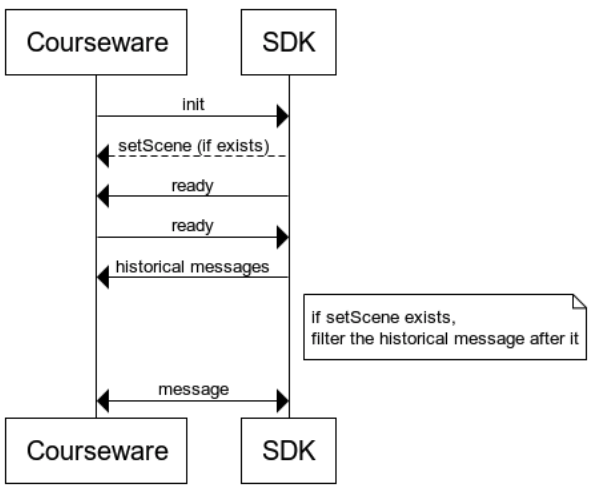
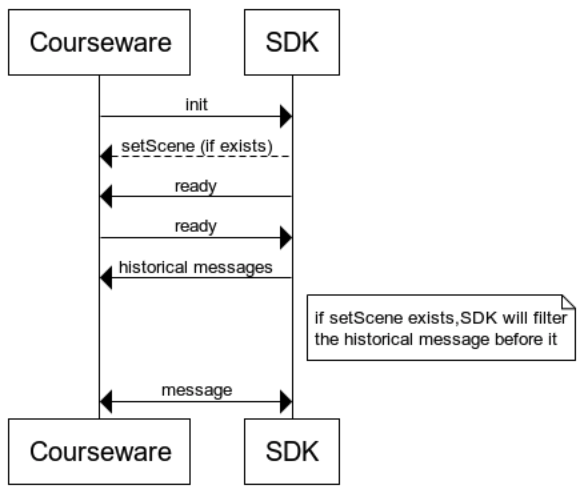
增加英文 readme

Changed region(s): [[0.0, 0.0, 0.9914, 1.0]]

diff --git a/README.en.md b/README.en.md
@@ -1,58 +1,58 @@
-# rise 课件对接说明
+# rise-h5-sdk
 
-接入此SDK，可使用 rise 信道进行即时通信，实现多个终端用户课件进度同步的效果。
+[中文](README.md)
 
-## 安装
+## General Usage
 
-引入 `rise-h5-sdk.js` ，即可使用 window.riseObserver 对象和 window.callRiseIframe、window.getRiseUserInfo 函数
+import `rise-h5-sdk.js` ，then the  “window.riseObserver” object and “window.callRiseIframe”、”window.getRiseUserInfo” functions will be available to use
 
-或者使用:   `npm install rise-h5-sdk --save`
+or
+`npm install rise-h5-sdk --save`
 ```javascript
 import { riseObserver, callRiseIframe, getRiseUserInfo } from 'rise-h5-sdk'
 ```
-## 流程图
+## Process Diagram
 ![image](/readme/seq_en.png)
-> 注：behavior = setScene 的消息 SDK 不会做限制，直接发送。
+> _ IMPORTANT _：behavior = setScene will be sent instantly without any restriction
 
-#### 流程说明
-1. 课件加载后发送 init 消息
-2. SDK 检查历史消息，找出最近的一次 setScene 消息，发送给课件（没有则不发送）
-3. SDK 发送 ready 消息
-4. 课件收到 SDK ready 后，回发一个 ready 消息
-5. SDK收到课件的 ready 后，会依次推送去重后的历史消息给课件。（如果有第2步的 setScene 则这里会过滤只推送 setScene 时间点后的消息）
-6. 进入正常的收发消息阶段
+#### How to work
+1. Send ‘init’ message when the courseware  was loaded
+2. SDK will pull the history messages，from which you will get the latest  “behavior = setScene” message for scene syncing
+3. SDK will send “ready” message
+4. Courseware responds a “ready” message
+5. SDK will send history messages to courseware  which will be replayed on the courseware side
+6. Events in, events out
 
-## 同屏实现原理：
-1. 课件通过 **riseObserver.on(key,fn)** 注册所有需要同步的渲染相关函数（**fn是纯粹的渲染行为函数**）
-2. 本地触发事件时，通过调用 **callRiseIframe(data)** 函数即可发送到其他用户端
-3. 其他端收到同步消息后，SDK 会调用 **riseObserver.emit(key,data)** 触发之前注册的自定义事件进行渲染
+## Key Process：
+1. register all rendering functions(fn) need to be sync **riseObserver.on(key,fn)** 
+2. Using **callRiseIframe(data)** to sync events to other clients
+3. Once the client received this event message，**riseObserver.emit(key,data)** will reproduce the same event to happen(function) on local machine 
 
-#### callRiseIframe的参数格式：
+#### callRiseIframe parameters：
 ```javascript
-// 注意：历史操作同步过程中会根据  target + behavior 进行去重处理，所以这两个参数定义时请尽量描述准确当前的行为
+// target + behavior’ combination will be used to handle duplication removing
 {
-    target: '目标对象', // 必填，目标对象选择器，推荐使用 id选择器，你可以根据这个 target 识别是哪个元素
-    behavior: 'key', // 必填，在  riseObserver.on(key,fn) 中注册的自定义事件名称 key
-    page:'页码标识', // 必填，当前 behavior 发生时所处的页码（全课件下页码唯一）。 rise 需要这个字段来操作教室的白板页码跟随
-    content: {},   // 自定义参数内容，你可以随意定义你需要的参数， content 本身必须是个对象
-    offline:false, // 表示此消息是否不需要通过 信道 发送给其他用户。默认 false，会同步给其他用户
-    interval: 0, // 像鼠标移动这类事件触发太频繁，需要控制频率，否则通信过于频繁会丢失数据。SDK 内置了实现，只需要指定 interval = 毫秒数 即可
+    target: '', // required，object selector(eg. id selector）
+    behavior: 'key', // required，event name(key) which mapped to the ‘key’ of riseObserver.on(key,fn) 
+    page:'', // required，current behavior page
+    content: {},   // custom message body(object)
+    offline:false, // （false by default）sync to other clients
+    interval: 0, // in case this event happens too often，set a reasonable sync frequency（ms）
 }
 ```
-#### getRiseUserInfo 函数
+
+#### getRiseUserInfo 
 ```javascript
-// 获取当前用户信息
+// Get current user info
 const userInfo = getRiseUserInfo();
-// 返回值
+return values
 {
-  isTeacher: false, // 是否是老师
-  hasControl: false, // 当前用户是否对课件有控制权。注意：此字段会动态变化，所以课件方使用时，需实时调用 getRiseUserInfo() 函数获取
+  isTeacher: false, 
+  hasControl: false, // Whether the user was authorized to control the courseware at the current time 
 }
 ```
 
-## 特定的 behavior：
-
-这些 behavior 是 SDK 中留做特殊用途的声明,课件渲染函数定义请避开下列保留词：
+## Speicial behavior as reserved words：
 
 - init
 - ready
@@ -63,64 +63,54 @@ const userInfo = getRiseUserInfo();
 - mediaStopAll
 - $setUrl
 
-> 注：另外为了保证日后 SDK 扩展不冲突，第三方也避免使用 $ 开头的 behavior
+> _ IMPORTANT _：In order to ensure that there is no conflict in future SDK versions, the third party should also avoid using the behavior beginning with '$'
 
-### SDK会主动发起的调用：
-需要第三方提前注册好相应的 behavior 事件，供 SDK 后续调用:
+### SDK initiated behavior：
+Third-party registered behavior for SDK later use:
 
-behavior  | content自定义参数 | 说明
+behavior  | content custom parameters| description
 ------------- | ------------- | -------------
-setScene  |  | 控制切换到指定场景，一般在同步最新进度时 SDK 会主动将历史消息中最近的一次 behavior = setScene  的发给课件
+setScene  |  | for scene syncing
 
-使用  riseObserver.on(key,fn) 注册 behavior,例如:
+behavior register:
 ```javascript
 riseObserver.on('setScene',function(data){
    const key = data.content.key;
-  // 课件切换到 key 对应的场景
+  // switch scene mapped to the ‘key’
 })
 ```
 
-### 需要第三方主动发起的调用:
+### Third party initiated behaviors:
 
-behavior  | content自定义参数 | 说明
+behavior  | content custom parameters| description
 ------------- | ------------- | -------------
-init | | 课件初始化事件，课件同步的操作会在 SDK 收到 init 通知后进行。参考流程图
-ready | | 课件已准备就绪，进入正常的通信阶段。参考流程图
-setScene  |  | 课件切换场景（包含翻页）后，应主动发起一次 behavior = setScene 消息，标记当前课件的最新场景。这样后进入教室的用户可以快速定位到最新场景
-mediaPlay  |  | 音、视频的播放通知
-mediaPause  |  | 音、视频的停止播放通知
-$setUrl  | {url:String}  | 改变课件所属 iframe 的 src 地址。一般用于切换到另一个课件（会清空已保存的历史进度）
+init | | courseware initilized
+ready | | courseware ready for sync
+mediaPlay  |  | Media playing event
+mediaPause  |  | Media paused event
+$setUrl  | {url:String}  | set courseware URL （current ）
 
-#### 1.课件初始化完成通知
-需要第三方在课件加载完成后，主动发起一次 `init`   通知:
+#### 1.courseware initialization  
+
+‘init’ behavior must be called once the courseware finished loading 
 ```javascript
-// 课件已加载完成
 callRiseIframe({
   target: '#course',
-  behavior: 'init', // 表示是课件初始化完成
-  page:'1-1',
+  behavior: 'init',
+  page:'courseware1-lesson1',
+  scene:'courseware1-lesson1',
   content: {}
 })
 ```
-SDK 收到 init 通知后，会推送 历史消息（如果有） 进行同步进度。
+Once the ‘init’ event received, history events will be started to triggered for progress syncing
 
-#### 2.音、视频的播放、停止事件通知：
-当音、视频进行播放时发起 `mediaPlay`   通知;  
-当音、视频停止播放时发起 `mediaPause`   通知;  
+#### 2.Media resources：
 
-注：媒体资源 rise 会在直播教室做特殊处理，所以需要按照上述约定的命名 behavior，在限定了 behavior 命名的情况下，第三方可根据 target 自行识别元素目标
+Media resources playing and pause events must be processed using ‘mediaPlay’ and  ‘mediaPause’ behavior names
 
-
-## 示例DEMO：
-联系 RISE 提供。
-
-## 如何测试？
-多屏互动必须在瑞思提供的网址内进行，同时打开两个浏览器窗口，分别加载以下地址：
+## How to test？
+To simulate multiple player interaction, open multiple windows of the following URL and login to the classroom：
 
 [https://h5demo.riselinkedu.com/](https://h5demo.riselinkedu.com/)
 
-使用瑞思提供的账号登录后进入直播间
-
-在右上方的输入框输入课件地址，点击 confirm：在其中一个窗口的课件进行操作，另一个窗口的课件会自动同步对应的操作。
-
-你也可以在右上方的输入框输入你的本地网址进行调式
+Input the courseware URL on the top right textarea and click the confirm button, the synchronization will be ready to function after the courseware loaded.

diff --git a/readme/README.en.md b/readme/README.en.md
@@ -1,6 +1,8 @@
 # rise 课件对接说明
 
-[English](README.en.md)
+接入此SDK，可使用 rise 信道进行即时通信，实现多个终端用户课件进度同步的效果。
+
+## 安装
 
 引入 `rise-h5-sdk.js` ，即可使用 window.riseObserver 对象和 window.callRiseIframe、window.getRiseUserInfo 函数
 
@@ -9,19 +11,19 @@
 import { riseObserver, callRiseIframe, getRiseUserInfo } from 'rise-h5-sdk'
 ```
 ## 流程图
-![image](/readme/seq.png)
-> 注：behavior = setScene 的消息 SDK 不会做限制，即时发送。
+![image](/readme/seq_en.png)
+> 注：behavior = setScene 的消息 SDK 不会做限制，直接发送。
 
 #### 流程说明
 1. 课件加载后发送 init 消息
-2. SDK 会拉取历史消息，从历史消息中取最近的一次 behavior = setScene 的消息推给课件，没有则不推送
+2. SDK 检查历史消息，找出最近的一次 setScene 消息，发送给课件（没有则不发送）
 3. SDK 发送 ready 消息
-4. 课件收到 SDK ready 后，回发一个 ready
+4. 课件收到 SDK ready 后，回发一个 ready 消息
 5. SDK收到课件的 ready 后，会依次推送去重后的历史消息给课件。（如果有第2步的 setScene 则这里会过滤只推送 setScene 时间点后的消息）
 6. 进入正常的收发消息阶段
 
-## 同屏关键操作：
-1. 通过 **riseObserver.on(key,fn)** 注册所有需要同步的渲染相关函数（**fn是纯粹的渲染行为函数**）
+## 同屏实现原理：
+1. 课件通过 **riseObserver.on(key,fn)** 注册所有需要同步的渲染相关函数（**fn是纯粹的渲染行为函数**）
 2. 本地触发事件时，通过调用 **callRiseIframe(data)** 函数即可发送到其他用户端
 3. 其他端收到同步消息后，SDK 会调用 **riseObserver.emit(key,data)** 触发之前注册的自定义事件进行渲染
 
@@ -31,14 +33,10 @@ import { riseObserver, callRiseIframe, getRiseUserInfo } from 'rise-h5-sdk'
 {
     target: '目标对象', // 必填，目标对象选择器，推荐使用 id选择器，你可以根据这个 target 识别是哪个元素
     behavior: 'key', // 必填，在  riseObserver.on(key,fn) 中注册的自定义事件名称 key
-	// page 和 scene 大部分时候是一样的。一般当一个页面有多个场景时会不一致，scene 比 page 颗粒度更细
-    page:'页码标识', // 必填，当前 behavior 发生时所处的页码（全课件下页码唯一）。 rise 需要这个字段来对应白板的页码
-    scene:'场景标识', // 必填，当前 behavior 发生时所处的 场景，你可以根据 scene 识别是哪个场景
+    page:'页码标识', // 必填，当前 behavior 发生时所处的页码（全课件下页码唯一）。 rise 需要这个字段来操作教室的白板页码跟随
     content: {},   // 自定义参数内容，你可以随意定义你需要的参数， content 本身必须是个对象
     offline:false, // 表示此消息是否不需要通过 信道 发送给其他用户。默认 false，会同步给其他用户
     interval: 0, // 像鼠标移动这类事件触发太频繁，需要控制频率，否则通信过于频繁会丢失数据。SDK 内置了实现，只需要指定 interval = 毫秒数 即可
-    timeout:0, // 延迟执行，毫秒。当前行为需要执行的时间，下一个行为会保持和这个行为的执行间隔
-    waitOn: [] // 例如 mousemove 事件的队列还没发送完毕，此时执行 mouseup 相关渲染可能会丢失部分 mousemove 数据。使用此字段指定需要等待某个behavior队列执行完毕再触发。在 interval 有值时才有效
 }
 ```
 #### getRiseUserInfo 函数
@@ -54,7 +52,7 @@ const userInfo = getRiseUserInfo();
 
 ## 特定的 behavior：
 
-这些 behavior 是 SDK 中留做特殊用途的声明,其他渲染函数定义请避开下列保留词：
+这些 behavior 是 SDK 中留做特殊用途的声明,课件渲染函数定义请避开下列保留词：
 
 - init
 - ready
@@ -73,48 +71,38 @@ const userInfo = getRiseUserInfo();
 behavior  | content自定义参数 | 说明
 ------------- | ------------- | -------------
 setScene  |  | 控制切换到指定场景，一般在同步最新进度时 SDK 会主动将历史消息中最近的一次 behavior = setScene  的发给课件
-mediaStopAll  |   | 暂停所有的媒体资源（音、视频）播放
 
-使用  riseObserver.on(key,fn) 注册这些 behavior,例如:
+使用  riseObserver.on(key,fn) 注册 behavior,例如:
 ```javascript
 riseObserver.on('setScene',function(data){
    const key = data.content.key;
   // 课件切换到 key 对应的场景
 })
-
-riseObserver.on('mediaStopAll',function(data){
-  // 暂停所有的音视频播放
-})
 ```
 
 ### 需要第三方主动发起的调用:
 
-behavior  | 参数（放在 content 上） | 说明
+behavior  | content自定义参数 | 说明
 ------------- | ------------- | -------------
 init | | 课件初始化事件，课件同步的操作会在 SDK 收到 init 通知后进行。参考流程图
-ready | | 课件已准备就绪，可以进入正常的收发通信过程。参考流程图
+ready | | 课件已准备就绪，进入正常的通信阶段。参考流程图
+setScene  |  | 课件切换场景（包含翻页）后，应主动发起一次 behavior = setScene 消息，标记当前课件的最新场景。这样后进入教室的用户可以快速定位到最新场景
 mediaPlay  |  | 音、视频的播放通知
 mediaPause  |  | 音、视频的停止播放通知
-setScene  |  | 课件切换场景（包含翻页）后，应主动发起一次 behavior = setScene 消息，标记当前课件的最新场景。这样后进入教室的用户可以快速定位到当前场景
 $setUrl  | {url:String}  | 改变课件所属 iframe 的 src 地址。一般用于切换到另一个课件（会清空已保存的历史进度）
 
 #### 1.课件初始化完成通知
 需要第三方在课件加载完成后，主动发起一次 `init`   通知:
 ```javascript
-// 课件已加载完成，参数含义参考上方 callRiseIframe 的参数说明
+// 课件已加载完成
 callRiseIframe({
-  target: '#course', // 课件选择器
+  target: '#course',
   behavior: 'init', // 表示是课件初始化完成
-  page:'courseware1-lesson1',
-  scene:'courseware1-lesson1',
+  page:'1-1',
   content: {}
 })
 ```
-SDK 收到 init 通知后，会推送 历史数据（如果有） 进行同步进度。过程简述如下：
-
-1. 拉取去重后的历史记录
-2. 找到最近的一个 setScene 并调用
-3. 将最近的一个 setScene 之后的消息依次推送给课件
+SDK 收到 init 通知后，会推送 历史消息（如果有） 进行同步进度。
 
 #### 2.音、视频的播放、停止事件通知：
 当音、视频进行播放时发起 `mediaPlay`   通知;  
